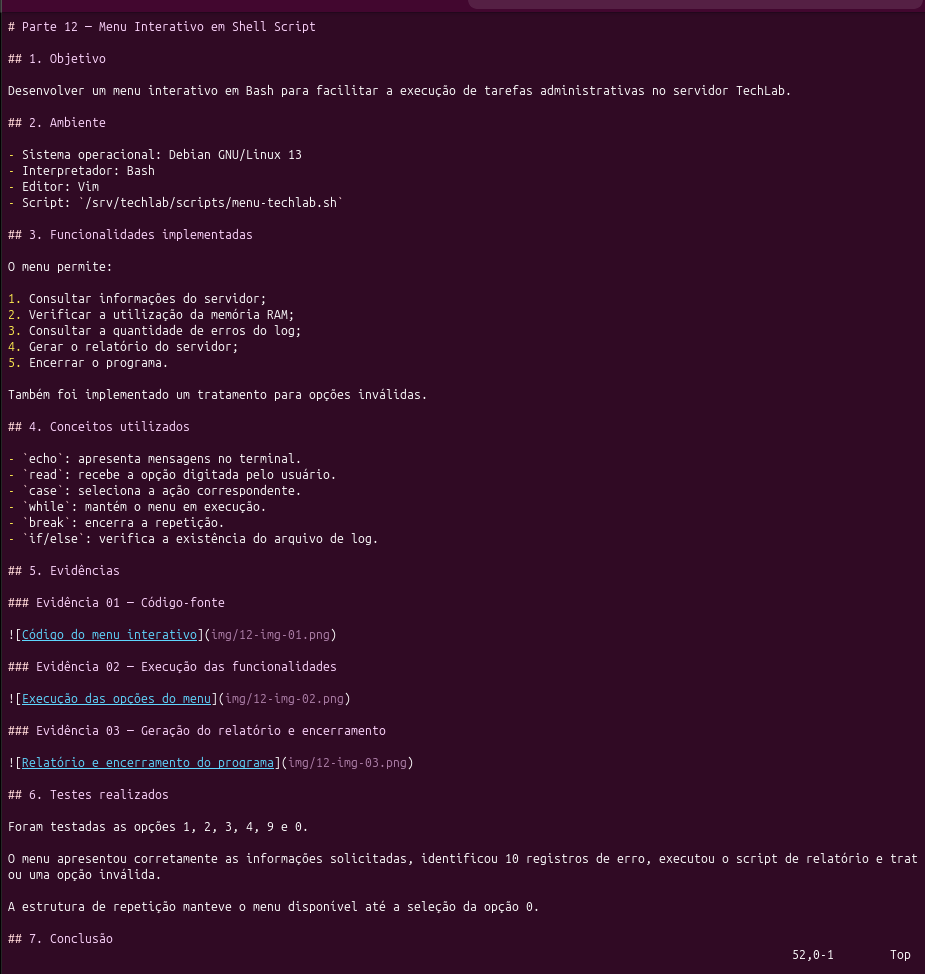
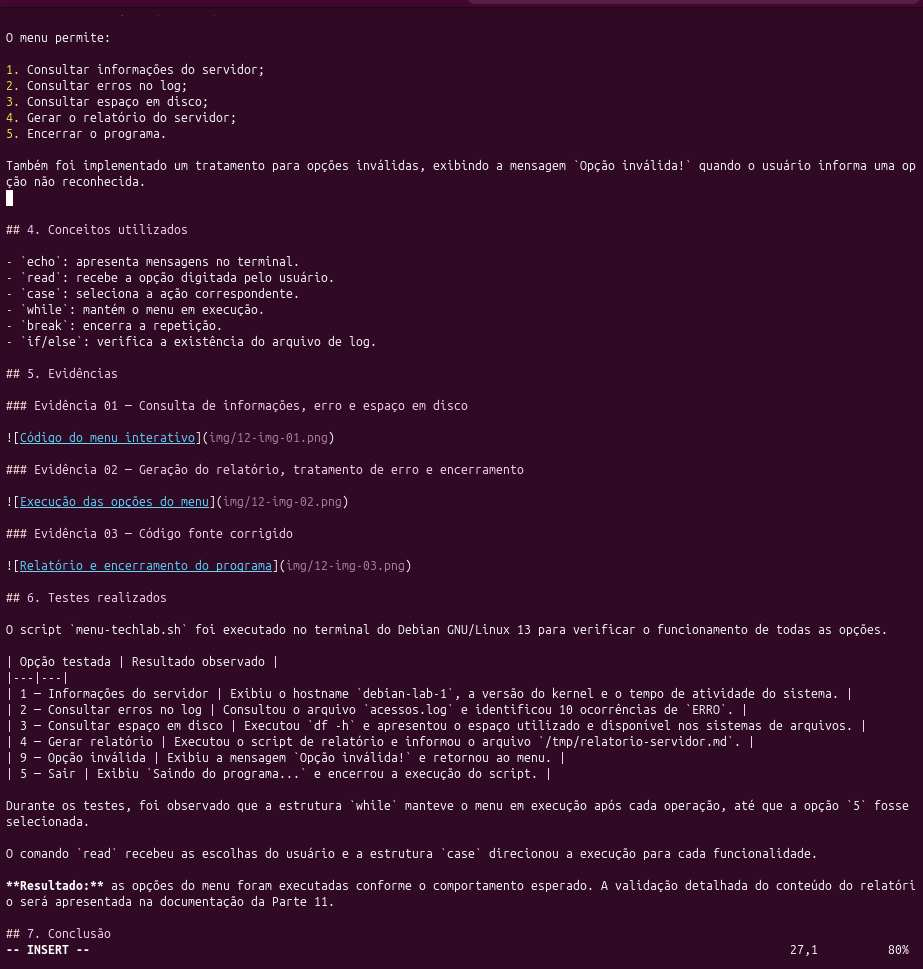
Corrigindo evdências da parte 12 do projeto

diff --git a/12-menu-interativo.md b/12-menu-interativo.md
@@ -25,7 +25,6 @@ O menu permite:
 
 Também foi implementado um tratamento para opções inválidas, exibindo a mensagem `Opção inválida!` quando o usuário informa uma opção não reconhecida.
 
-Também foi implementado um tratamento para opções inválidas.
 
 ## 4. Conceitos utilizados
 
@@ -38,15 +37,15 @@ Também foi implementado um tratamento para opções inválidas.
 
 ## 5. Evidências
 
-### Evidência 01 — Código-fonte
+### Evidência 01 — Consulta de informações, erro e espaço em disco
 
 ![Código do menu interativo](img/12-img-01.png)
 
-### Evidência 02 — Execução das funcionalidades
+### Evidência 02 — Geração do relatório, tratamento de erro e encerramento
 
 ![Execução das opções do menu](img/12-img-02.png)
 
-### Evidência 03 — Geração do relatório e encerramento
+### Evidência 03 — Código fonte corrigido
 
 ![Relatório e encerramento do programa](img/12-img-03.png)
 
